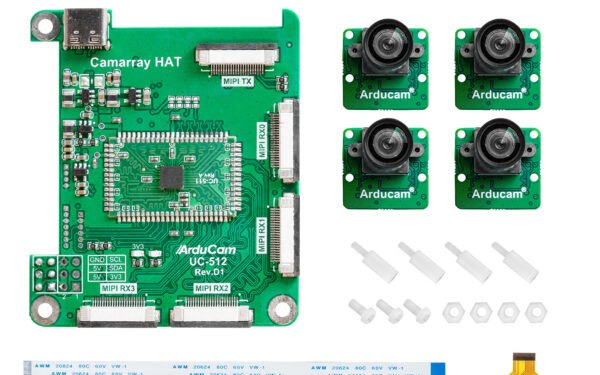
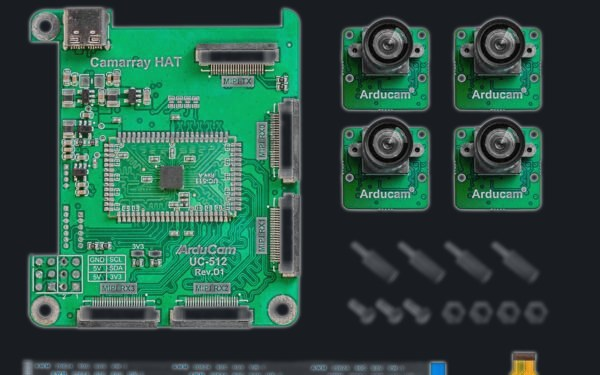
UI fixes: AA contrast, dark photo background, single-row mobile nav, tap targets
Claude-Session: https://claude.ai/code/session_01LzMNsBo7o7bpnzQ2eLPyEP

diff --git a/index.html b/index.html
@@ -45,7 +45,7 @@
 :root{
   --bg:#0A0C11; --card:#11151C; --card-2:#151A22; --fig:#0D1117;
   --line:#222935; --line-2:#2C3442;
-  --fg:#ECEFF4; --muted:#A2AAB6; --faint:#6F7886;
+  --fg:#ECEFF4; --muted:#A2AAB6; --faint:#8A939F;
   --auto:#5CCADA; --ml:#929FFF; --bio:#EE92B6;
   --auto-bg:rgba(92,202,218,.12); --ml-bg:rgba(146,159,255,.13); --bio-bg:rgba(238,146,182,.12);
   --sans:"Inter","Helvetica Neue",Arial,sans-serif;
@@ -70,7 +70,9 @@ header.site{position:sticky;top:env(safe-area-inset-top,0px);z-index:20;backgrou
 header.site .wrap{display:flex;align-items:center;justify-content:space-between;gap:14px;padding-block:12px;flex-wrap:wrap}
 .brand{font-weight:700;font-size:16px;letter-spacing:-.01em;color:var(--fg)}
 .brand:hover{text-decoration:none}
-nav.primary{display:flex;gap:2px;flex-wrap:wrap}
+nav.primary{display:flex;gap:2px;flex-wrap:nowrap;overflow-x:auto;scrollbar-width:none;-ms-overflow-style:none;max-width:100%}
+nav.primary::-webkit-scrollbar{display:none}
+nav.primary a{white-space:nowrap}
 nav.primary a{font-size:14px;font-weight:500;color:var(--muted);padding:7px 11px;border-radius:9px}
 nav.primary a:hover{color:var(--fg);background:var(--card);text-decoration:none}
 nav.primary a.active{color:var(--fg);background:var(--card-2)}
@@ -129,7 +131,7 @@ section.block h2{font-size:clamp(26px,3.4vw,32px);font-weight:800;letter-spacing
 .card.auto{--t:var(--auto);--tbg:var(--auto-bg)}
 .card.bio{--t:var(--bio);--tbg:var(--bio-bg)}
 .media{position:relative;aspect-ratio:16/10;max-width:100%;background-color:var(--fig);background-image:radial-gradient(rgba(255,255,255,.05) 1px,transparent 1px);background-size:14px 14px;border-bottom:1px solid var(--line);overflow:hidden}
-.media.photo{background:#fff}
+.media.photo{background:var(--card)}
 .media img{width:100%;height:100%;object-fit:cover;display:block}
 .media svg{position:absolute;inset:0;width:100%;height:100%}
 .credit{position:absolute;left:10px;bottom:10px;font-size:11px;font-weight:500;color:#E9EDF3;background:rgba(8,10,14,.72);border-radius:7px;padding:3px 8px}
@@ -139,6 +141,7 @@ section.block h2{font-size:clamp(26px,3.4vw,32px);font-weight:800;letter-spacing
 .card h3{font-size:18px;font-weight:700;letter-spacing:-.015em;line-height:1.3}
 .meta{font-size:13.5px;color:var(--faint);line-height:1.5}
 .meta b{color:var(--muted);font-weight:600}
+.meta a,.where a,footer.site a{display:inline-block;padding:7px 2px;margin:-7px 0;line-height:1.2}
 .sum{font-size:14.5px;color:var(--muted);line-height:1.65}
 .chips{display:flex;flex-wrap:wrap;gap:6px;margin-top:auto;padding-top:8px}
 .chips span{font-size:12px;font-weight:500;color:var(--fg);background:var(--tbg);border-radius:7px;padding:3px 9px}
@@ -372,7 +375,7 @@ body.locked{overflow:hidden}
           <div class="body">
             <span class="kicker">Independent research &bull; in progress</span>
             <h3>Calibration-Aware Active Learning for Closed-Loop Discovery</h3>
-            <p class="meta">Self-directed &middot; <em>bridges autonomous decision-making and computational biology</em></p>
+            <p class="meta">Self-directed &middot;&nbsp;<em>bridges autonomous decision-making and computational biology</em></p>
             <p class="sum">A self-driving lab is a control loop: a model proposes candidates, a system tests a subset, and the results retrain the model. That loop has to choose what to test next under uncertainty &mdash; the same problem as deciding where a robot is when its signals are noisy. I am running a simulated version over public bioactivity data to test whether the <em>calibration</em> of the scoring model, rather than its ranking accuracy, governs how many experiments the loop needs. Results pending.</p>
             <div class="chips"><span>Active learning</span><span>Conformal prediction</span><span>Sequential decisions</span><span>Cheminformatics</span></div>
           </div>
